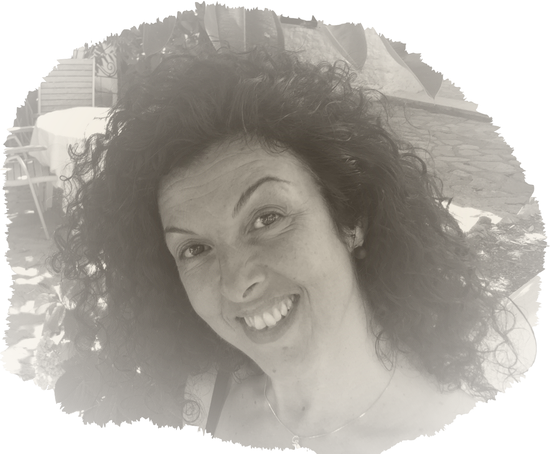
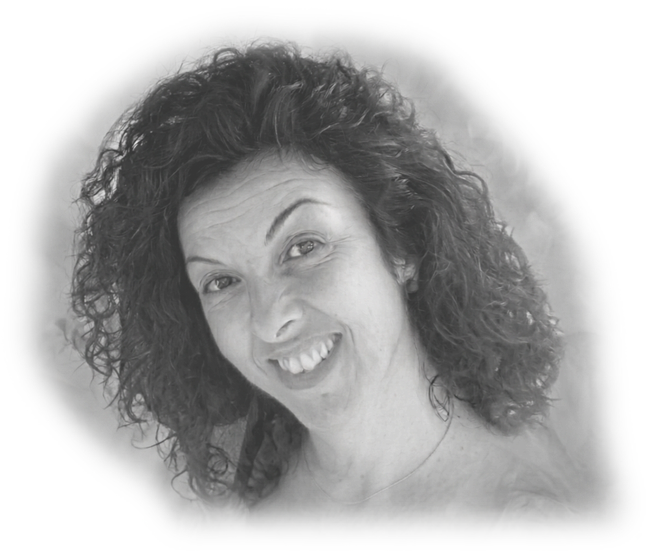
Volto definitivo, albero come placeholder, correzione anteprima foto, nuovo titolo

diff --git a/src/App.jsx b/src/App.jsx
@@ -204,12 +204,14 @@ function scriviArchivio(dati) {
 }
 
 /* Riduce la foto prima di spedirla: gli scatti da telefono sono troppo pesanti. */
+/* Ridisegna sempre su canvas e riesporta in JPEG: così anche formati che il browser
+   legge ma che <img> non renderizza in modo affidabile (es. HEIC su alcuni telefoni)
+   arrivano all'anteprima già in un formato che si vede per certo. */
 function ridimensiona(dataUrl, latoMax = 1024, qualita = 0.82) {
-  return new Promise((risolvi) => {
+  return new Promise((risolvi, rifiuta) => {
     const img = new Image();
     img.onload = () => {
       const scala = Math.min(1, latoMax / Math.max(img.width, img.height));
-      if (scala === 1 && dataUrl.length < 900000) return risolvi(dataUrl);
       const tela = document.createElement("canvas");
       tela.width = Math.round(img.width * scala);
       tela.height = Math.round(img.height * scala);
@@ -218,10 +220,10 @@ function ridimensiona(dataUrl, latoMax = 1024, qualita = 0.82) {
       try {
         risolvi(tela.toDataURL("image/jpeg", qualita));
       } catch {
-        risolvi(dataUrl);
+        rifiuta(new Error("Non è stato possibile elaborare questa foto."));
       }
     };
-    img.onerror = () => risolvi(dataUrl);
+    img.onerror = () => rifiuta(new Error("Formato foto non supportato dal browser. Prova con un'altra foto (JPG o PNG)."));
     img.src = dataUrl;
   });
 }
@@ -880,7 +882,7 @@ function SchermataApertura({ visibile }) {
       <img
         src="/volto-apertura.png"
         alt=""
-        style={{ width: 190, height: 190, objectFit: "contain" }}
+        style={{ width: 228, height: 228, objectFit: "contain" }}
       />
       <img src="/icona-180.png" alt="BarbaPlant" style={{ width: 138, height: 138, borderRadius: 14, boxShadow: "0 2px 10px #00000022" }} />
     </div>
@@ -1047,7 +1049,7 @@ export default function App() {
     <div className="space-y-5">
       <div className="flex items-center justify-between gap-3">
         <h1 className="text-3xl font-extrabold leading-tight" style={{ color: C.testo }}>
-          Le nostre piante
+          Osserviamo il verde
         </h1>
         <button
           onClick={() => setModaleAggiungi(true)}
@@ -1062,26 +1064,16 @@ export default function App() {
       <Card className="overflow-hidden">
         <div className="relative" style={{ height: 260, backgroundColor: C.velo }}>
           {fotoCorrente ? (
-            <img src={fotoCorrente} alt="Foto da analizzare" className="w-full h-full object-cover" />
+            <img
+              key={fotoCorrente}
+              src={fotoCorrente}
+              alt="Foto da analizzare"
+              className="w-full h-full object-cover"
+              onError={() => setErrore("L'anteprima di questa foto non si è caricata. Prova a sceglierne un'altra.")}
+            />
           ) : (
-            <>
-              {/* segnaposto: sostituito dalla foto scattata/scelta finché non ce n'è una */}
-              <img
-                src="/foto-segnaposto.png"
-                alt=""
-                className="w-full h-full object-cover"
-                style={{
-                  maskImage: "radial-gradient(ellipse at center, #000 40%, transparent 90%)",
-                  WebkitMaskImage: "radial-gradient(ellipse at center, #000 40%, transparent 90%)",
-                }}
-                onError={(e) => { e.currentTarget.style.display = "none"; }}
-              />
-              <div className="absolute inset-0 flex flex-col items-center justify-center text-center px-8 pointer-events-none">
-                <IcoFoglia s={28} />
-                <p className="text-sm font-bold mt-2" style={{ color: C.testo }}>Nessuna foto ancora</p>
-                <p className="text-sm mt-1" style={{ color: C.soft }}>Scatta o scegli una foto per riconoscere la pianta.</p>
-              </div>
-            </>
+            /* segnaposto: sostituito dalla foto scattata/scelta finché non ce n'è una */
+            <img src="/albero-iniziale.png" alt="" className="w-full h-full object-cover" />
           )}
         </div>
 
